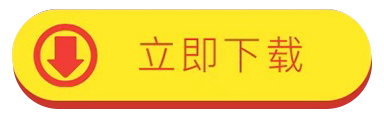
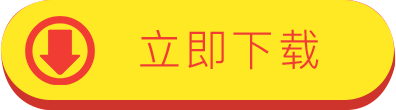
cjzk

diff --git a/cjzk.myushan.com/index.html b/cjzk.myushan.com/index.html
@@ -54,12 +54,13 @@
         <img style="position: absolute; bottom: 10%; width: 50%; left: 25%;" src="images/btn.png" id="download1">
         <img class="bg" src="images/7.jpg">
         
-        <div style="font-size:16px;color:#000; position:absolute;bottom:8%;width:100%!important;height:auto;text-align:center;margin: 0 auto;">北京智投智道投资咨询有限公司</div>
-        
-		    <div id="download2">
-                <img class="bg" src="images/bg2.png" style="width: 100%;height: auto;">
-                <div id="download3" style="position: absolute;width: 32%;height: 38%;left: 67%;top:24%;z-index: 999;"></div>
-            </div>
+        <div style="font-size:8px;color:#000; position:absolute;bottom:8%;width:100%!important;height:auto;text-align:center;margin: 0 auto;">北京智投智道投资咨询有限公司</div>
+        <div id="download2">
+            <img class="bg" src="images/bg2.png" >
+            <div id="download3" style="position: absolute;width: 32%;height: 41%;left: 67%;top: 20%;z-index: 9999;"></div>
+        </div>
+
+
     </div>
 
 
